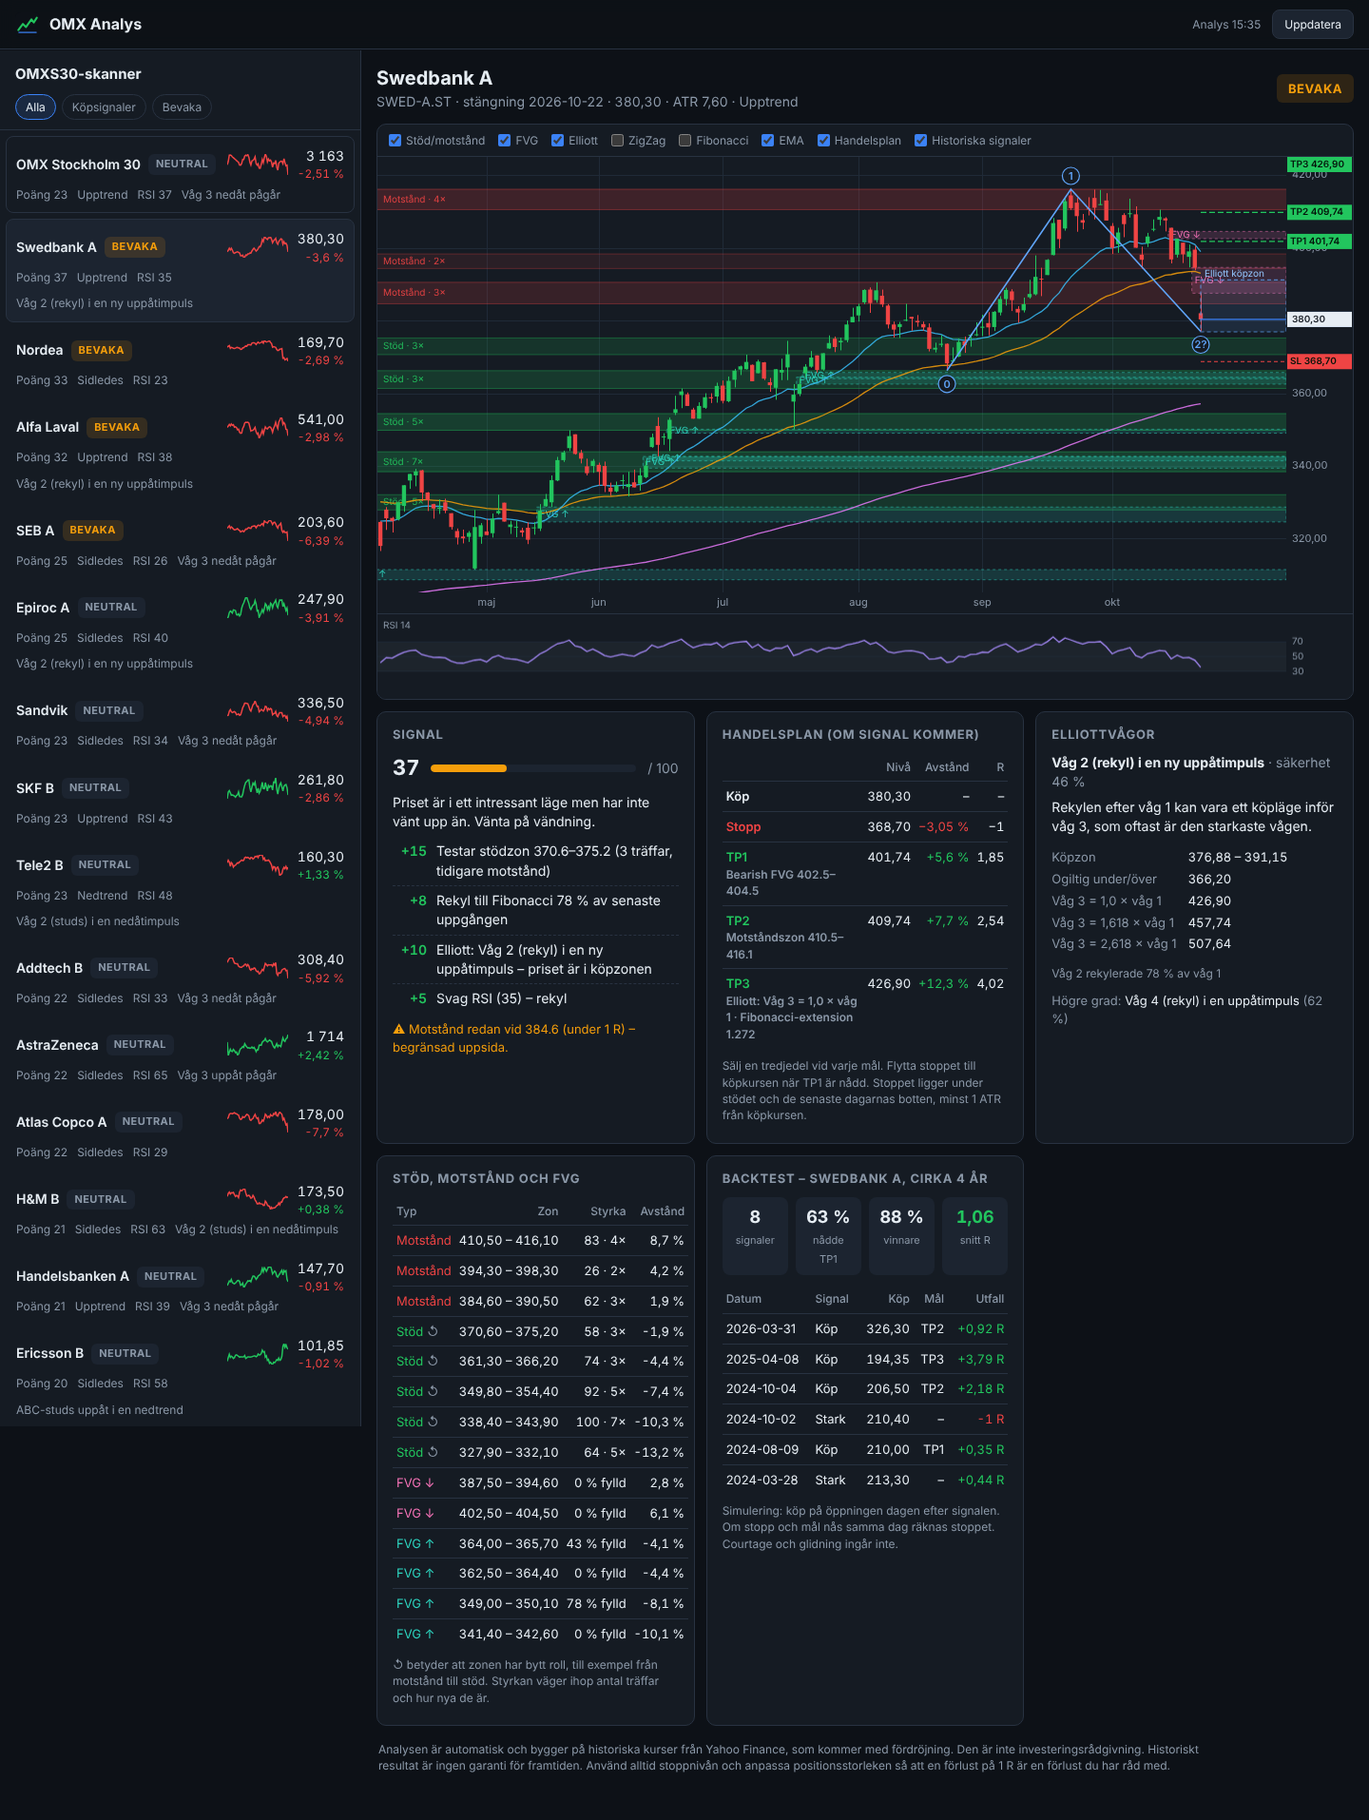
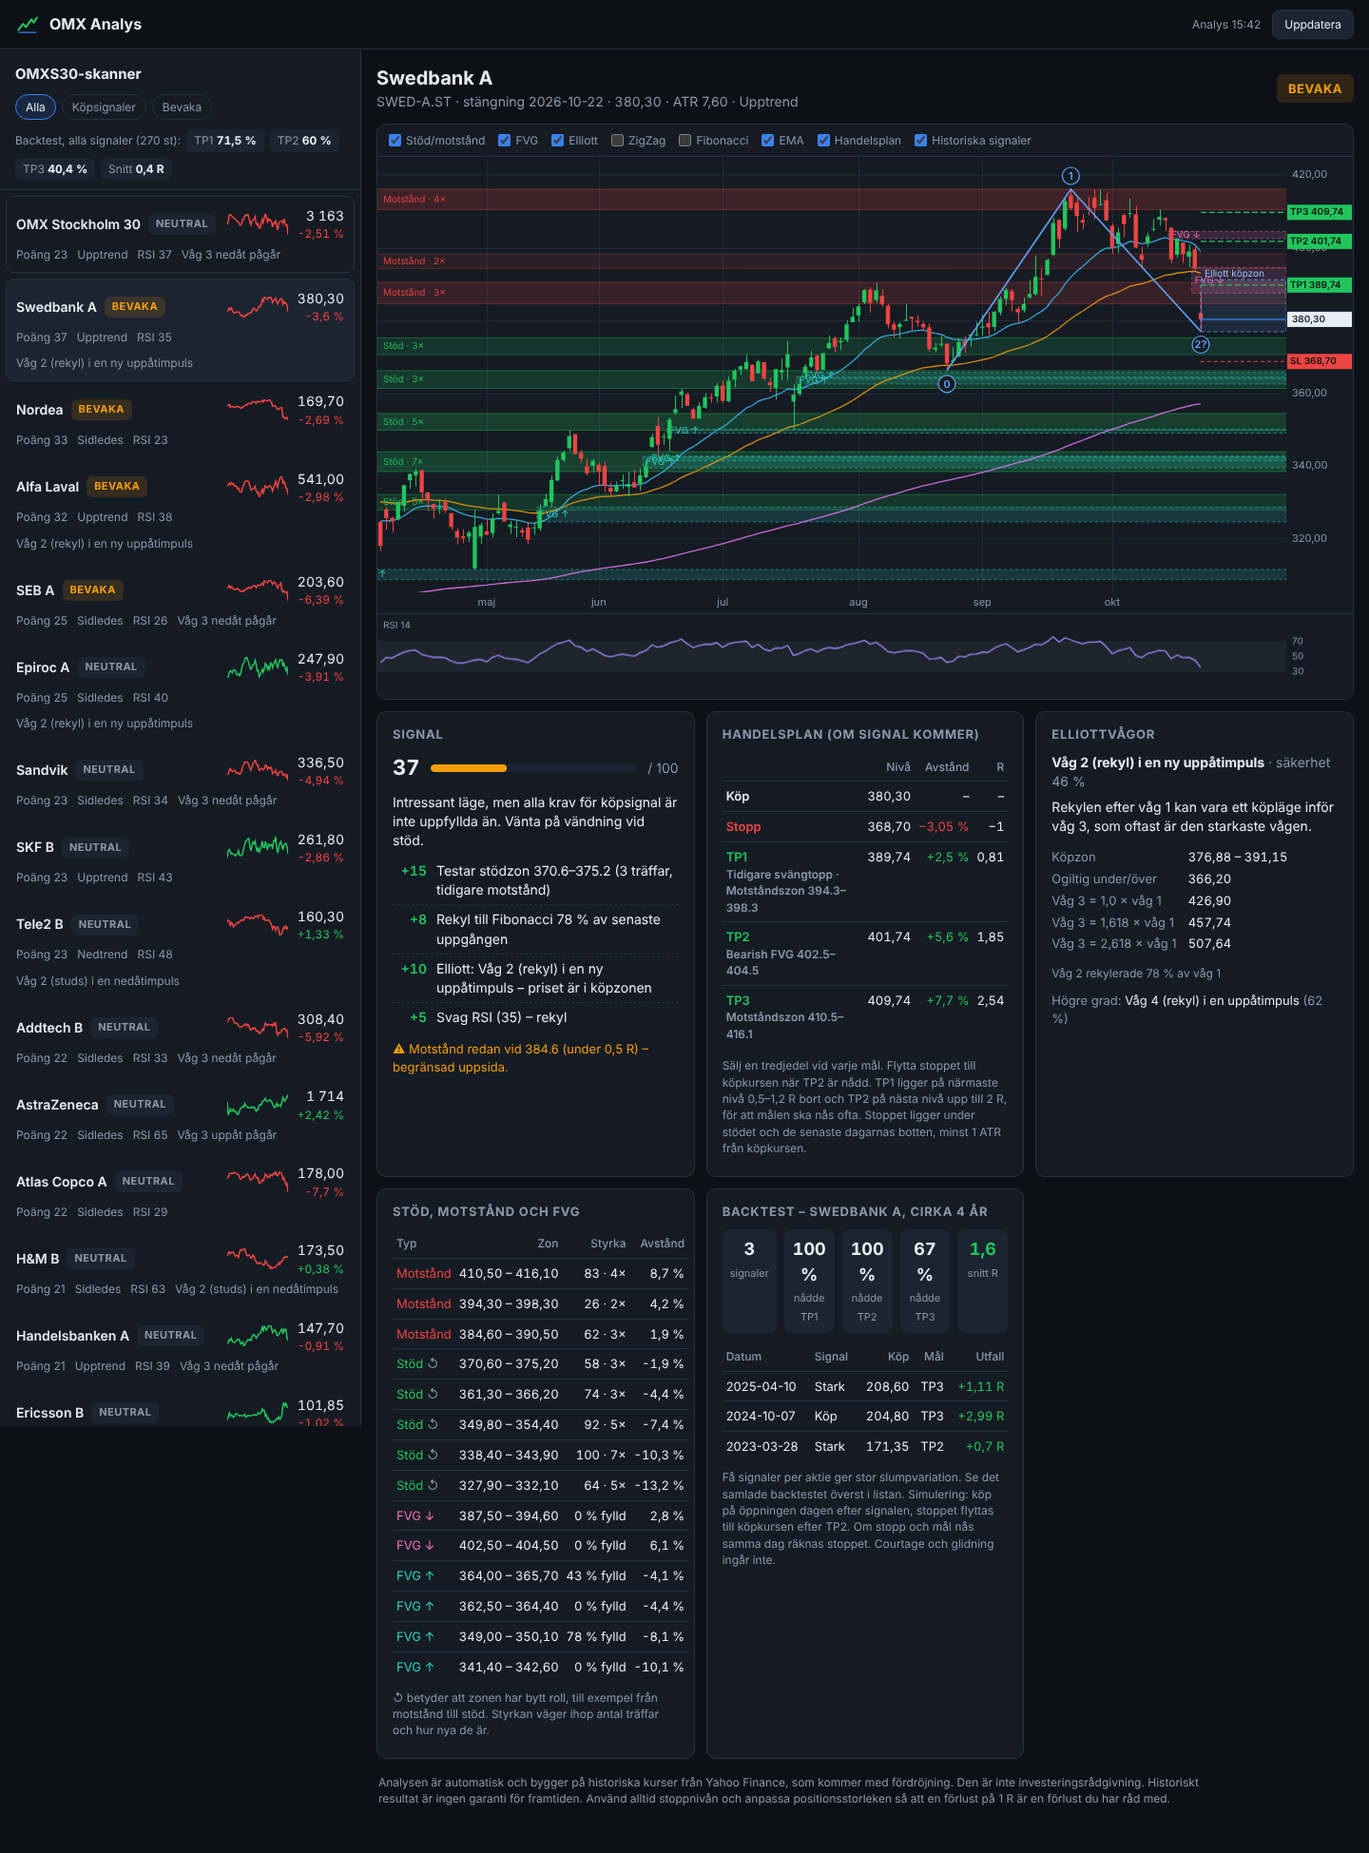
Höj träffsäkerheten för TP1 och TP2
TP1 läggs på närmaste nivå 0,5–1,2 R bort och TP2 på nästa nivå upp till
2 R. Stoppet ligger kvar tills TP2 är nådd. Köpsignal kräver nu rekyl
under EMA 200, stöd, RSI och MACD som vänder samt en giltig Elliottvågräkning.
Backtestet för OMXS30 2022–2026 når TP1 i 71,5 % och TP2 i 60 % av 270
affärer. Träffsäkerheten för TP1–TP3 visas per aktie och för alla signaler.

Claude-Session: https://claude.ai/code/session_01Euj93ZzpSSbQBtTzRwizxv

diff --git a/lib/analyze.js b/lib/analyze.js
@@ -146,34 +146,38 @@ export function evaluate(bars, opts = {}) {
     else merged.push({ price: c.price, labels: [c.label], obstacle: c.kind === 'obstacle' });
   }
 
+  // Målen är satta för hög träffsäkerhet: TP1 på närmaste nivå 0,5–1,2 R
+  // bort och TP2 på nästa nivå upp till 2 R. Utan nivå där används 0,8 R
+  // respektive 1,2 R. TP3 är nästa tydliga nivå för resten av positionen.
   const nearestObstacle = merged.find(m => m.obstacle);
-  const maxDist = atrv * 10;
-  const tps = [];
-  let floor = entry + R;
-  for (const m of merged) {
-    if (tps.length === 3) break;
-    if (m.price < floor || m.price > entry + maxDist) continue;
-    // Sälj strax under ett motstånd i stället för mitt i det.
-    const px = m.obstacle ? m.price - atrv * 0.1 : m.price;
-    tps.push({ price: round(px), r: round((px - entry) / R), why: m.labels });
-    floor = px + Math.max(R * 0.5, atrv);
-  }
-  while (tps.length < 3) {
-    const mult = [1.5, 2.5, 3.5][tps.length];
-    const px = Math.max(entry + R * mult, (tps.length ? tps[tps.length - 1].price : 0) + atrv);
-    tps.push({ price: round(px), r: round((px - entry) / R), why: [`${round((px - entry) / R)} R (inget tydligt motstånd)`] });
-  }
-  const rr = tps[0].r;
-  if (nearestObstacle && nearestObstacle.price < entry + R) {
-    warnings.push(`Motstånd redan vid ${round(nearestObstacle.price)} (under 1 R) – begränsad uppsida.`);
+  const levelPx = m => (m.obstacle ? m.price - atrv * 0.1 : m.price);
+  const above = merged.map(m => ({ px: levelPx(m), why: m.labels })).filter(m => m.px > entry);
+  const mk = (px, why) => ({ price: round(px), r: round((px - entry) / R), why });
+  const rLabel = k => [`${String(k).replace('.', ',')} R (ingen nivå i närheten)`];
+  const l1 = above.find(m => m.px >= entry + R * 0.5 && m.px <= entry + R * 1.2);
+  const tp1 = l1 ? mk(l1.px, l1.why) : mk(entry + R * 0.8, rLabel(0.8));
+  const l2 = above.find(m => m.px >= tp1.price + Math.max(R * 0.3, atrv * 0.5) && m.px <= entry + R * 2);
+  const tp2 = l2 ? mk(l2.px, l2.why) : mk(Math.max(entry + R * 1.2, tp1.price + R * 0.3), rLabel(1.2));
+  const l3 = above.find(m => m.px >= tp2.price + Math.max(R * 0.5, atrv) && m.px <= entry + atrv * 10);
+  const tp3 = l3 ? mk(l3.px, l3.why) : mk(tp2.price + (tp2.price - entry) * 0.6, ['Förlängning av TP2']);
+  const tps = [tp1, tp2, tp3];
+  const rr = tp1.r;
+  if (nearestObstacle && nearestObstacle.price < entry + R * 0.5) {
+    warnings.push(`Motstånd redan vid ${round(nearestObstacle.price)} (under 0,5 R) – begränsad uppsida.`);
   }
 
   // --- Klassning ---
   const macdTurn = triggers.includes('MACD-histogram vänder upp');
   let status = 'neutral';
-  if (score >= 50 && rsiTurn && support) status = 'strong';
-  else if (score >= 42 && (rsiTurn || (support && macdTurn))) status = 'buy';
-  else if (setupScore >= 25) status = 'watch';
+  // Rekyler under EMA 200 har gett klart högre träffsäkerhet än rekyler i en
+  // redan stark trend. Över EMA 200 krävs därför en högre poäng.
+  const deep = e200 != null && price < e200;
+  const trigger = rsiTurn || (support && macdTurn);
+  const qualified = score >= 42 && trigger && (deep || score >= 55) && !!p;
+  const confirmed = qualified && deep && support && rsiTurn && macdTurn;
+  if (confirmed && rsiMin < 32) status = 'strong';
+  else if (confirmed) status = 'buy';
+  else if (setupScore >= 25 || qualified || (score >= 42 && trigger)) status = 'watch';
   else if (setupScore <= -10) status = 'avoid';
 
   return {
@@ -185,7 +189,8 @@ export function evaluate(bars, opts = {}) {
     ema: { e20: round(e20), e50: round(e50), e200: round(e200) },
     score, setupScore: Math.round(setupScore), status,
     reasons, warnings, triggers,
-    plan: { entry: round(entry), stop: round(stop), riskPct: round((R / entry) * 100), tps, rr },
+    plan: { entry: round(entry), stop: round(stop), riskPct: round((R / entry) * 100), tps, rr,
+      levels: merged.map(m => ({ price: round(m.price), obstacle: m.obstacle, labels: m.labels })) },
     zones: zones.map(z => ({ lo: round(z.lo), hi: round(z.hi), kind: z.kind, score: z.score, touches: z.touches, flipped: z.flipped })),
     fvgs: fvgs.map(g => ({ type: g.type, lo: round(g.lo), hi: round(g.hi), i: g.i, fillPct: g.fillPct })),
     zigzag: zz.map(q => ({ i: q.i, price: round(q.price), type: q.type, tentative: !!q.tentative })),
@@ -197,7 +202,7 @@ export function evaluate(bars, opts = {}) {
 }
 
 // Simulerar varje köpsignal: köp på nästa dags öppning, sälj en tredjedel
-// vid varje vinstmål och flytta stoppet till inköpspris efter första målet.
+// vid varje vinstmål och flytta stoppet till inköpspris efter andra målet.
 // Om stopp och mål nås samma dag räknas stoppet (försiktigt antagande).
 export function backtest(bars, { start = 260, window = 400, maxHold = 60 } = {}) {
   const trades = [];
@@ -218,7 +223,7 @@ export function backtest(bars, { start = 260, window = 400, maxHold = 60 } = {})
       while (hit < 3 && x.h >= tps[hit].price) {
         result += ((tps[hit].price - entry) / R) / 3;
         hit++;
-        sl = Math.max(sl, entry);
+        if (hit === 2) sl = Math.max(sl, entry);
       }
       if (hit === 3) { exitI = j; break; }
     }
@@ -236,6 +241,8 @@ export function backtest(bars, { start = 260, window = 400, maxHold = 60 } = {})
   const stats = (list) => ({
     n: list.length,
     tp1Rate: list.length ? Math.round(100 * list.filter(x => x.hit >= 1).length / list.length) : null,
+    tp2Rate: list.length ? Math.round(100 * list.filter(x => x.hit >= 2).length / list.length) : null,
+    tp3Rate: list.length ? Math.round(100 * list.filter(x => x.hit >= 3).length / list.length) : null,
     winRate: list.length ? Math.round(100 * list.filter(x => x.r > 0).length / list.length) : null,
     avgR: list.length ? round(list.reduce((s, x) => s + x.r, 0) / list.length) : null,
   });

diff --git a/public/app.js b/public/app.js
@@ -101,9 +101,9 @@ function renderDetail(d) {
   // Signal
   const col = A.score >= 50 ? 'var(--green)' : A.score >= 30 ? 'var(--amber)' : 'var(--muted)';
   const explain = {
-    strong: 'Översåld rekyl som vänder upp vid en stark stödzon, och flera faktorer pekar åt samma håll.',
-    buy: 'Flera faktorer pekar på ett köpläge och momentum har börjat vända upp.',
-    watch: 'Priset är i ett intressant läge men har inte vänt upp än. Vänta på vändning.',
+    strong: 'Kraftigt översåld rekyl under EMA 200 som vänder upp vid en stödzon. RSI och MACD vänder samtidigt.',
+    buy: 'Rekyl under EMA 200 som vänder upp vid en stödzon. RSI och MACD vänder samtidigt.',
+    watch: 'Intressant läge, men alla krav för köpsignal är inte uppfyllda än. Vänta på vändning vid stöd.',
     neutral: 'Inget tydligt köpläge just nu.',
     avoid: 'Sent eller överköpt läge. Vänta på en rekyl.',
   }[A.status];
@@ -122,7 +122,8 @@ function renderDetail(d) {
       <tr class="plan-row sl"><td>Stopp</td><td class="r num">${fmt(pl.stop)}</td><td class="r num neg">−${pl.riskPct.toString().replace('.', ',')} %</td><td class="r num">−1</td></tr>
       ${pl.tps.map((t, k) => `<tr class="plan-row tp"><td>TP${k + 1}<div class="why">${t.why.map(esc).join(' · ')}</div></td><td class="r num">${fmt(t.price)}</td><td class="r num pos">+${pct(t.price, pl.entry)}</td><td class="r num">${String(t.r).replace('.', ',')}</td></tr>`).join('')}
     </table>
-    <p class="muted" style="font-size:12px;margin-top:10px">Sälj en tredjedel vid varje mål. Flytta stoppet till köpkursen när TP1 är nådd.
+    <p class="muted" style="font-size:12px;margin-top:10px">Sälj en tredjedel vid varje mål. Flytta stoppet till köpkursen när TP2 är nådd.
+    TP1 ligger på närmaste nivå 0,5–1,2 R bort och TP2 på nästa nivå upp till 2 R, för att målen ska nås ofta.
     Stoppet ligger under stödet och de senaste dagarnas botten, minst 1 ATR från köpkursen.</p>`;
 
   // Elliott
@@ -159,7 +160,8 @@ function renderDetail(d) {
     <div class="stats">
       <div class="stat"><b class="num">${s.n}</b><span>signaler</span></div>
       <div class="stat"><b class="num">${s.tp1Rate ?? '–'} %</b><span>nådde TP1</span></div>
-      <div class="stat"><b class="num">${s.winRate ?? '–'} %</b><span>vinnare</span></div>
+      <div class="stat"><b class="num">${s.tp2Rate ?? '–'} %</b><span>nådde TP2</span></div>
+      <div class="stat"><b class="num">${s.tp3Rate ?? '–'} %</b><span>nådde TP3</span></div>
       <div class="stat"><b class="num ${s.avgR > 0 ? 'pos' : 'neg'}">${s.avgR == null ? '–' : String(s.avgR).replace('.', ',')}</b><span>snitt R</span></div>
     </div>
     <table>
@@ -168,7 +170,24 @@ function renderDetail(d) {
         <td class="r num">${fmt(t.entry)}</td><td class="r">${t.hit ? 'TP' + t.hit : '–'}</td>
         <td class="r num ${t.open ? '' : t.r > 0 ? 'pos' : 'neg'}">${t.open ? 'pågår' : (t.r > 0 ? '+' : '') + String(t.r).replace('.', ',') + ' R'}</td></tr>`).join('') || '<tr><td colspan="5" class="muted">Inga signaler under perioden.</td></tr>'}
     </table>
-    <p class="muted" style="font-size:12px;margin-top:8px">Simulering: köp på öppningen dagen efter signalen. Om stopp och mål nås samma dag räknas stoppet. Courtage och glidning ingår inte.</p>`;
+    <p class="muted" style="font-size:12px;margin-top:8px">Få signaler per aktie ger stor slumpvariation. Se det samlade backtestet överst i listan.
+    Simulering: köp på öppningen dagen efter signalen, stoppet flyttas till köpkursen efter TP2. Om stopp och mål nås samma dag räknas stoppet. Courtage och glidning ingår inte.</p>`;
+}
+
+async function loadSummary() {
+  try {
+    const s = await (await fetch('/api/summary')).json();
+    const a = s.all;
+    const pc = v => v == null ? '–' : String(v).replace('.', ',') + ' %';
+    $('#summary').innerHTML = `<span>Backtest, alla signaler (${a.n} st):</span>
+      <span class="pill">TP1 <b class="${a.tp1Rate >= 60 ? 'pos' : 'neg'}">${pc(a.tp1Rate)}</b></span>
+      <span class="pill">TP2 <b class="${a.tp2Rate >= 54 ? 'pos' : 'neg'}">${pc(a.tp2Rate)}</b></span>
+      <span class="pill">TP3 <b>${pc(a.tp3Rate)}</b></span>
+      <span class="pill">Snitt <b>${String(a.avgR).replace('.', ',')} R</b></span>`;
+  } catch {
+    $('#summary').textContent = '';
+  }
 }
 
 loadScan(false);
+loadSummary();

diff --git a/public/style.css b/public/style.css
@@ -52,6 +52,9 @@ h3 { font-size: 13px; text-transform: uppercase; letter-spacing: .06em; color: v
 .chip.active { color: var(--text); border-color: var(--blue); background: var(--blue-soft); }
 
 .scan-list { padding: 6px; }
+.summary { margin-top: 10px; font-size: 12px; display: flex; gap: 6px; flex-wrap: wrap; align-items: center; }
+.summary b { color: var(--text); font-variant-numeric: tabular-nums; }
+.summary .pill { background: var(--panel-2); border-radius: 6px; padding: 3px 8px; }
 .loading { padding: 24px 16px; color: var(--muted); }
 .row {
   display: grid; grid-template-columns: 1fr auto; gap: 4px 10px; padding: 10px; border-radius: 8px; cursor: pointer;
@@ -116,9 +119,9 @@ tr:last-child td { border-bottom: 0; }
 .kv { display: grid; grid-template-columns: auto 1fr; gap: 4px 12px; font-size: 13px; }
 .kv dt { color: var(--muted); }
 .kv dd { margin: 0; }
-.stats { display: grid; grid-template-columns: repeat(4, 1fr); gap: 8px; margin-bottom: 10px; }
+.stats { display: grid; grid-template-columns: repeat(5, 1fr); gap: 8px; margin-bottom: 10px; }
 .stat { background: var(--panel-2); border-radius: 8px; padding: 8px; text-align: center; }
-.stat b { display: block; font-size: 18px; }
+.stat b { display: block; font-size: 16px; white-space: nowrap; }
 .stat span { font-size: 11px; color: var(--muted); }
 .disclaimer { color: var(--muted); font-size: 12px; margin: 16px 2px 32px; max-width: 900px; }
 .empty { color: var(--muted); padding: 40px; text-align: center; }
@@ -132,5 +135,5 @@ tr:last-child td { border-bottom: 0; }
   .back { display: inline-block; }
   #chart { height: 380px; }
   .cards { grid-template-columns: 1fr; }
-  .stats { grid-template-columns: repeat(2, 1fr); }
+  .stats { grid-template-columns: repeat(3, 1fr); }
 }

diff --git a/server.js b/server.js
@@ -60,6 +60,27 @@ async function scan() {
   });
 }
 
+// Samlat backtest för alla instrument. Tar några sekunder, så det räknas i
+// bakgrunden och hämtas separat av gränssnittet.
+async function summary() {
+  return cached('summary', async () => {
+    const trades = [];
+    for (const s of universe) {
+      try {
+        const bt = backtest(await fetchBars(s.symbol));
+        trades.push(...bt.trades.filter(t => !t.open));
+      } catch { /* instrumentet hoppas över */ }
+      await new Promise(r => setImmediate(r));
+    }
+    const rate = (list, k) => list.length ? Math.round(1000 * list.filter(x => x.hit >= k).length / list.length) / 10 : null;
+    const stats = list => ({
+      n: list.length, tp1Rate: rate(list, 1), tp2Rate: rate(list, 2), tp3Rate: rate(list, 3),
+      avgR: list.length ? Math.round(100 * list.reduce((a, x) => a + x.r, 0) / list.length) / 100 : null,
+    });
+    return { updated: Date.now(), all: stats(trades), strong: stats(trades.filter(t => t.status === 'strong')), buy: stats(trades.filter(t => t.status === 'buy')) };
+  });
+}
+
 async function analysis(symbol) {
   return cached(`a:${symbol}`, async () => {
     const meta = bySymbol.get(symbol);
@@ -98,6 +119,7 @@ const server = http.createServer(async (req, res) => {
       if (url.searchParams.has('refresh')) cache.clear();
       return send(res, 200, await scan());
     }
+    if (url.pathname === '/api/summary') return send(res, 200, await summary());
     if (url.pathname === '/api/analysis') {
       const symbol = url.searchParams.get('symbol');
       if (!bySymbol.has(symbol)) return send(res, 404, { error: 'Okänd symbol' });

diff --git a/public/index.html b/public/index.html
@@ -29,6 +29,7 @@
           <button class="chip" data-filter="signals">Köpsignaler</button>
           <button class="chip" data-filter="watch">Bevaka</button>
         </div>
+        <div id="summary" class="summary muted">Räknar backtest för alla signaler…</div>
       </div>
       <div id="scan-list" class="scan-list"><div class="loading">Hämtar och analyserar 31 instrument…</div></div>
     </aside>

diff --git a/test/analysis.test.js b/test/analysis.test.js
@@ -100,7 +100,7 @@ test('Handelsplanen har stopp under och stigande mål över köpkursen', () => {
   assert.equal(tps.length, 3);
   assert.ok(tps[0].price > entry);
   assert.ok(tps[0].price < tps[1].price && tps[1].price < tps[2].price);
-  assert.ok(tps[0].r >= 1);
+  assert.ok(tps[0].r >= 0.5);
   assert.ok(['strong', 'buy', 'watch', 'neutral', 'avoid'].includes(ev.status));
 });
 

diff --git a/README.md b/README.md
@@ -20,27 +20,37 @@ MACD, stängning över gårdagens topp, engulfing eller hammare, divergens). Öv
 
 | Status | Krav |
 |---|---|
-| **STARK KÖPSIGNAL** | Poäng ≥ 50, RSI vänder upp från under 40, och priset testar en stödzon |
-| **KÖPSIGNAL** | Poäng ≥ 42 och RSI vänder upp, eller stöd + MACD vänder upp |
-| **BEVAKA** | Bra läge men ingen vändning ännu |
+| **STARK KÖPSIGNAL** | Samma krav som KÖPSIGNAL, och dessutom har RSI varit under 32 de senaste dagarna |
+| **KÖPSIGNAL** | Poäng ≥ 42, priset under EMA 200, priset testar en stödzon, RSI vänder upp från under 40, MACD-histogrammet vänder upp och det finns en giltig Elliottvågräkning |
+| **BEVAKA** | Bra läge men alla krav är inte uppfyllda än |
 | **AVVAKTA** | Överköpt eller sen fas |
 
-**Handelsplan:** Stoppet läggs under stödzonen och de senaste fem dagarnas botten, minst 1 ATR bort. Vinstmålen tas från
-riktiga nivåer: motståndszoner, bearish FVG, tidigare toppar, Fibonacci-extensioner och Elliottmål. TP1 ligger minst 1 R bort, och
-ett mål som ligger vid ett motstånd läggs strax under motståndet. Om det inte finns någon nivå används R-multiplar.
+**Handelsplan:** Stoppet läggs under stödzonen och de senaste fem dagarnas botten, minst 1 ATR bort. Målen tas från
+riktiga nivåer: motståndszoner, bearish FVG, tidigare toppar, Fibonacci-extensioner och Elliottmål. Mål vid ett motstånd
+läggs strax under motståndet.
 
-### Kalibrering och backtest
-Vikterna är satta efter ett backtest på OMXS30-aktierna för 2022–2026. Varje signal köps på nästa dags öppning, en tredjedel
-säljs vid varje mål och stoppet flyttas till köpkursen efter TP1. Om stopp och mål nås samma dag räknas stoppet.
+- **TP1:** närmaste nivå 0,5–1,2 R bort, annars 0,8 R
+- **TP2:** nästa nivå upp till 2 R bort, annars 1,2 R
+- **TP3:** nästa tydliga nivå, för den sista tredjedelen
 
-| | Affärer | Nådde TP1 | Snitt per affär |
-|---|---|---|---|
-| Första versionen (trendföljande) | 251 | 33 % | −0,02 R |
-| Nuvarande version | 695 | 54 % | +0,28 R |
+Sälj en tredjedel vid varje mål och flytta stoppet till köpkursen när TP2 är nådd.
 
-Det som har fungerat bäst på storbolagen i OMXS30 är att köpa en översåld rekyl som vänder upp vid ett stöd. Att jaga en redan
-stark trend har fungerat sämre. Vikterna är kalibrerade på samma data som de testas på, och courtage ingår inte, så räkna med
-sämre resultat i verkligheten. Appen visar backtestet för varje aktie och markerar historiska signaler i grafen.
+### Backtest
+Krav: TP1 ska nås i minst 60 % av affärerna och TP2 i minst 54 %. Simuleringen köper på nästa dags öppning. Om stopp och
+mål nås samma dag räknas stoppet. En aktie kan bara ha en affär åt gången. Courtage ingår inte.
+
+| OMXS30 2022–2026 | Affärer | TP1 | TP2 | TP3 | Snitt per affär |
+|---|---|---|---|---|---|
+| Alla signaler | 270 | 71,5 % | 60,0 % | 40,4 % | +0,40 R |
+| Stark köpsignal | 139 | 70,5 % | 59,0 % | 38,1 % | +0,43 R |
+| Köpsignal | 131 | 72,5 % | 61,1 % | 42,7 % | +0,38 R |
+
+Reglerna valdes på data för 2022–2024 och kontrollerades på 2025–2026, och träffsäkerheten blev ungefär lika hög i båda
+perioderna. Det viktigaste filtret är att priset ligger under EMA 200. Rekyler i aktier som redan ligger i stark upptrend
+nådde TP2 i bara cirka 47 % av fallen.
+
+Resultatet varierar mellan åren: 2023 nådde 59 % av signalerna TP2 och 2026 hittills 52 %. Appen visar
+backtestet per aktie och för alla signaler tillsammans, och markerar historiska signaler i grafen.
 
 **Det här är inte investeringsrådgivning.**
 
